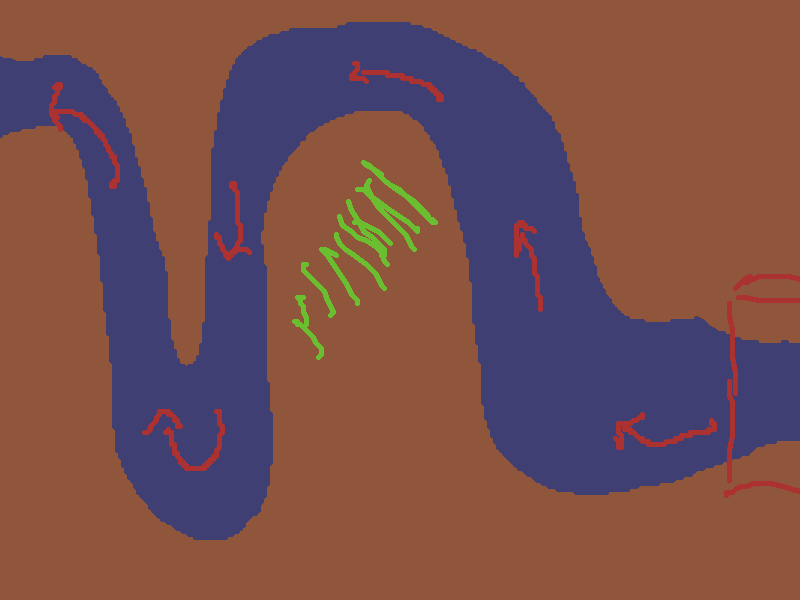
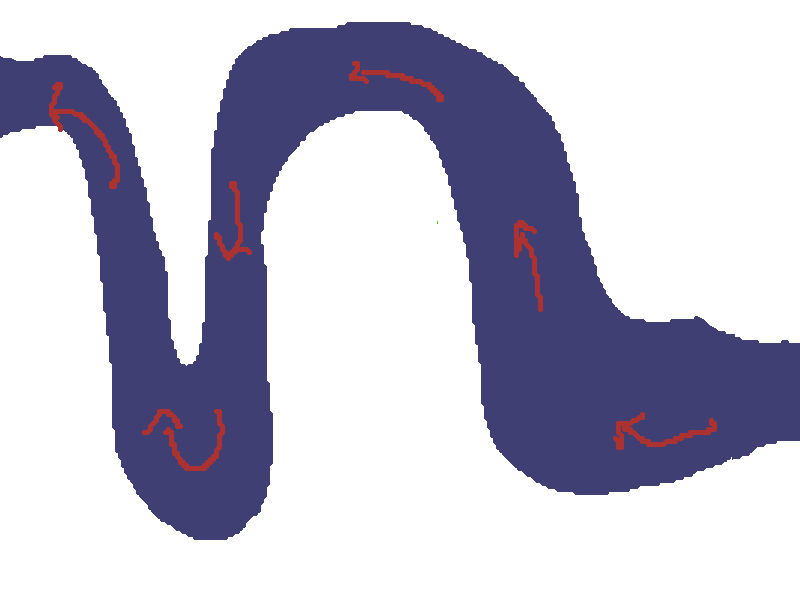
new: boat faces direction of travel

diff --git a/src/states/game.js b/src/states/game.js
@@ -5,62 +5,93 @@ Game.prototype = {
   towers: null,
   notes: null,
   volText: null,
+  select: null,
+  river: null,
 
   init: function() {
-    console.log(this);
     setCurrency(100);
   },
 
   preload: function() {
-    game.load.image("bg", "../res/img/game-placeholder-bg.png");
+    game.load.image("river", "../res/img/game-placeholder-bg.png");
     game.load.image("boat", "../res/img/Boat.png");
     game.load.image("tower", "../res/img/Tower.png");
     game.load.image("gun", "../res/img/Gun.png");
     game.load.image("note", "../res/img/Note.png");
     game.load.image("rider", "../res/img/Rider.png");
     game.load.image("AOE", "../res/img/AOE.png");
+    game.load.image("Select", "../res/img/Select.png");
+    game.load.image("bg", "../res/img/BG.png");
   },
 
   create: function() {
     game.add.sprite(0,0,"bg");
+    this.river = game.add.sprite(0,0,"river");
+    this.river.inputEnabled = true;
+    this.river.input.pixelPerfectClick = true;
     this.boats = game.add.group();
     this.towers = game.add.group();
     this.notes = game.add.group();
     this.spawnBoat();
-    game.input.onDown.add(this.spawnTower.bind(this, this.towers));
+    game.input.onDown.add(()=>{
+      this.select.x = -100;
+      // Check for if we've clicked a previously exisiting node
+      var clickedOn = this.towers.filter((tower) => (
+        getAbsoluteDistance(game.input.activePointer, tower) < tower.width/2
+      ));
+      // If not, spawn
+      if (clickedOn.first) {
+        this.select.x = clickedOn.first.x;
+        this.select.y = clickedOn.first.y;
+        this.select.selected = clickedOn.first;
+      } else {
+        if (!this.river.input.pointerOver()) {
+          this.spawnTower(this.towers);
+        }
+      }
+    });
     this.volText = game.add.text(0,0,"Volume at mouse: 0 dB");
+    this.select = game.add.sprite(-100, -100, "Select");
+    this.select.anchor.setTo(0.5, 0.5);
   },
 
   update: function() {
     // Get the volume at the current mouse position
     
-    var vol = this.getVolAtMouse();
+    var vol = this.getVolAt(game.input.activePointer);
     this.volText.text = "Volume at mouse: "+vol+" dB"
+
+    this.boats.forEach((boat) => {
+      boat.rotation = Phaser.Math.angleBetweenPoints(
+                        new Phaser.Point(0,0),
+                        new Phaser.Point(boat.deltaX, boat.deltaY))
+    });
   },
 
-  getVolAtMouse: function() {
+  getVolAt: function(point) {
     // First, get all nodes in range
     // So that'll be distance <= 100*range
     var inRange = this.towers.filter(
-      (tower) => (getAbsoluteDistance(game.input.activePointer,
+      (tower) => (getAbsoluteDistance(point,
                                       tower) <= 100*tower.range));
     var s = 0;
-    console.log(inRange);
     inRange.list.forEach((i)=>(s+=i.power));
     return s;
   },
 
   spawnBoat: function() {
-    var thisBoat = this.boats.create(700, 350, "boat");
+    var thisBoat = this.boats.create(850, 400, "boat");
+    thisBoat.anchor.setTo(0.5,0.5);
     // Start the boat off on its magical journey to the asylum
     var t = game.add.tween(thisBoat).to( 
-      {x: Levels.coords[0].map((x)=>(x.x - 100)),
-       y: Levels.coords[0].map((x)=>(x.y - 50))},
+      {x: Levels.coords[0].map((x)=>(x.x)),
+       y: Levels.coords[0].map((x)=>(x.y))},
       16000,
       "Linear"
     );
     t.interpolation(Phaser.Math.catmullRomInterpolation);
     t.onComplete.add(this.killBoat);
+    thisBoat.tweenie = t;
     t.start();
   },
 
